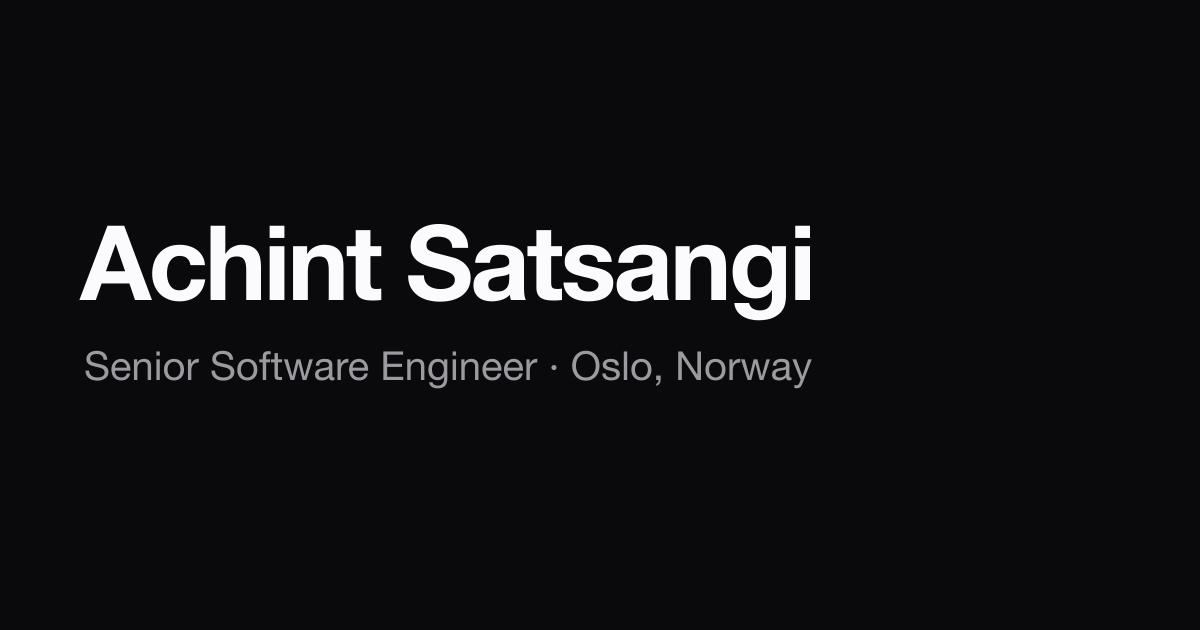
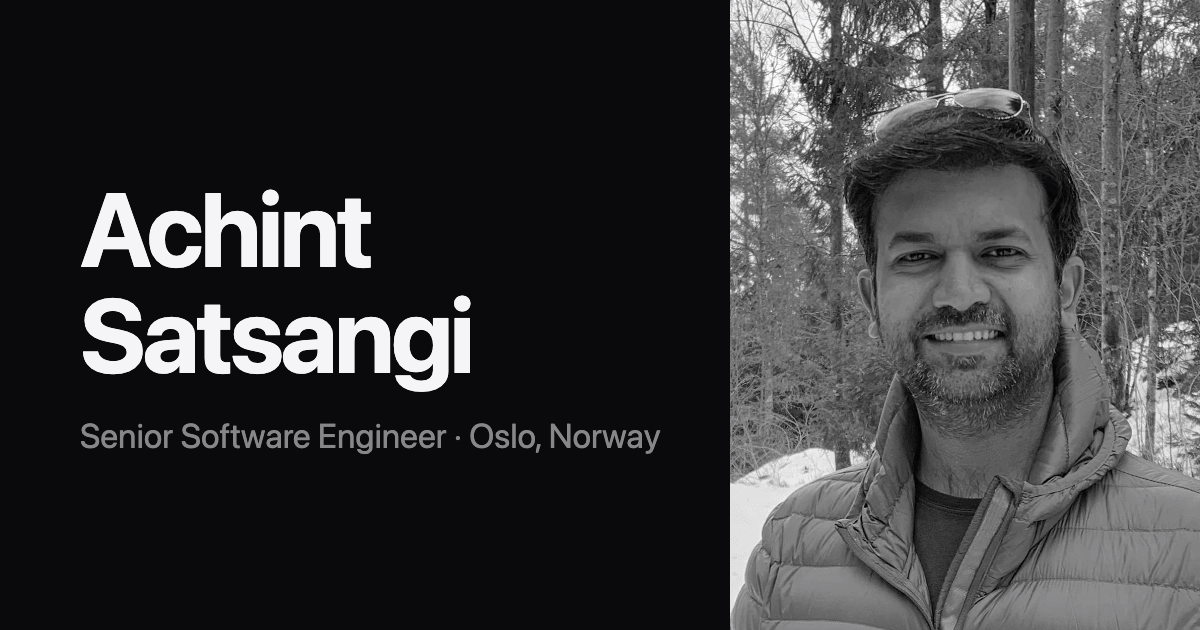
SEO round 2 and catch the feed up with LinkedIn
- Per-page share cards (og-default with portrait, one per essay, built by scripts/build-og.mjs) so links shared on LinkedIn/Slack show a face or the essay, not a bare title
- Article metadata on essays (og:type article, published time, author, BlogPosting image/publisher) so Google can attribute the essays to the Person entity
- Sharper essay descriptions and a Writing h1 that says what the page is, since both feed the search snippet
- Portrait moved into the home hero and loaded eagerly, so the landing page carries an image above the fold on desktop
- Sitemap without lastmod, as GitHub Pages builds would otherwise stamp every page as changed on each deploy
- Three newer LinkedIn posts (20, 21, 27 Oct) added and ten posts given their images, so the feed matches what is live on LinkedIn
- 16 Oct bill charts rendered from the essay SVGs at 1280px, as LinkedIn only serves them at 480px
- Feed cap 20 → 26: sync was silently trimming three posts already live on the site
- linkedin: frontmatter on the adoption essay turns on its Discuss on LinkedIn link

diff --git a/tests/portfolio.spec.ts b/tests/portfolio.spec.ts
@@ -454,3 +454,34 @@ test.describe('Responsive — 375px phone', () => {
     expect(box!.width).toBeLessThan(60);
   });
 });
+
+test.describe('Landing hero portrait', () => {
+  test.use({ viewport: { width: 1280, height: 800 } });
+
+  test('desktop: the one portrait sits beside the name inside the first viewport', async ({ page }) => {
+    await page.goto(`${BASE}/`);
+    await expect(page.locator('img[src*="portrait"]')).toHaveCount(1);
+    const photo = (await page.getByTestId('hero-photo').boundingBox())!;
+    const name = (await page.getByTestId('hero-name').boundingBox())!;
+    expect(photo.y + photo.height).toBeLessThanOrEqual(800);
+    expect(photo.x).toBeGreaterThan(name.x + name.width - 1);
+    await expect(page.getByTestId('hero-content').getByTestId('hero-photo')).toBeVisible();
+  });
+
+  test('phone: name, line, photo, intro in that order with no sideways scroll', async ({ page }) => {
+    for (const width of [320, 375]) {
+      await page.setViewportSize({ width, height: 812 });
+      await page.goto(`${BASE}/`);
+      const top = async (id: string) => (await page.getByTestId(id).boundingBox())!.y;
+      const order = [await top('hero-name'), await top('hero-masthead'), await top('hero-photo'), await top('hero-intro')];
+      expect(order).toEqual([...order].sort((a, b) => a - b));
+      expect(await page.evaluate(() => document.documentElement.scrollWidth)).toBeLessThanOrEqual(width);
+    }
+  });
+});
+
+test('writing page: h1 names the essays and the old line is the subtitle', async ({ page }) => {
+  await page.goto(`${BASE}/writing/`);
+  await expect(page.getByTestId('writing-hero')).toHaveText('Essays on engineering and AI in practice.');
+  await expect(page.getByTestId('writing-subtitle')).toHaveText('The long version, with the data and the corrections.');
+});

diff --git a/src/content.config.ts b/src/content.config.ts
@@ -12,6 +12,7 @@ const writing = defineCollection({
     updateNote: z.string().optional(),
     cover: z.string().optional(),
     coverDark: z.string().optional(),
+    ogImage: z.string().optional(),
     linkedin: z.string().url().optional(),
   }),
 });

diff --git a/src/content/writing/ai-coding-bill-wrong-reason.md b/src/content/writing/ai-coding-bill-wrong-reason.md
@@ -1,10 +1,11 @@
 ---
 title: I was right about my AI coding bill for the wrong reason
-description: I set out to build Claude Code habits to cut the bill, then checked it against my cloud billing. Spend really did fall two-thirds, but a default I didn't set did it, and when an update lifted that default, spend doubled.
+description: "My Claude Code spend fell two-thirds, and my habits weren't why. A default capped sessions at about 167k tokens. When an update lifted it on 2 October, spend doubled."
 tldr: "My Claude Code spend really did fall two-thirds after I left Opus 4.7, but not because of my habits. A Claude Code default capped my sessions at about 167k tokens, and when an update lifted it on 2 October, spend doubled. Pin the defaults that drive cost, watch daily spend rather than session cost, and check the cause against the bill."
 date: 2026-10-16
 cover: images/writing/ai-coding-bill-wrong-reason-cover-light.webp
 coverDark: images/writing/ai-coding-bill-wrong-reason-cover-dark.webp
+ogImage: images/writing/ai-coding-bill-wrong-reason-og.png
 linkedin: https://www.linkedin.com/feed/update/urn:li:ugcPost:7516723306952155136/
 ---
 Earlier this month I posted that most of my Claude Code bill wasn't paying for code. Over 90% of the spend went to re-sending conversation history. Then I set out to build two habits: clear every session in the evening, and keep each task's context in a Markdown file so a fresh session can pick it up. I believed the model was capping my sessions at around 160k tokens. A cost analysis Claude ran on my transcripts said my daily spend had dropped by about two-thirds, and I believed I was delivering more.

diff --git a/src/content/writing/ai-adoption-story.md b/src/content/writing/ai-adoption-story.md
@@ -1,10 +1,12 @@
 ---
 title: "An AI adoption journey: somebody still has to read it"
-description: A short fictional AI adoption journey. A six-person team on its way to becoming an AI-augmented team, and the gap between the person who ships fast and the person who has to read it. Four-minute video, or click through at your own pace.
+description: "When one person gets fast with AI, the reading lands on their reviewers. A four-minute fictional story of a six-person team's first year."
 tldr: "Fiction. In AI adoption, when one person gets fast, the reading lands on their reviewers. Follow Fjordly's team from first tool to AI-augmented team, then answer the question at the end."
 date: 2026-10-23
 cover: images/writing/ai-adoption-story-cover-light.webp
 coverDark: images/writing/ai-adoption-story-cover-dark.webp
+ogImage: images/writing/ai-adoption-story-og.png
+linkedin: https://www.linkedin.com/feed/update/urn:li:activity:7520743033672384512/
 ---
 An AI-assisted pull request can take an hour to write. Reading it properly can take someone else the afternoon.
 
